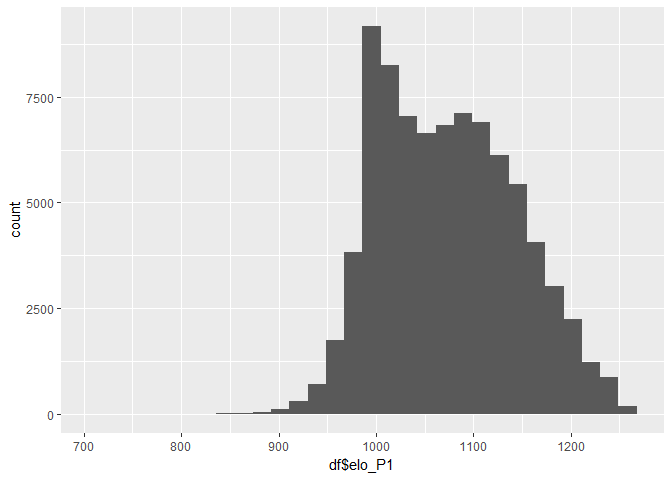
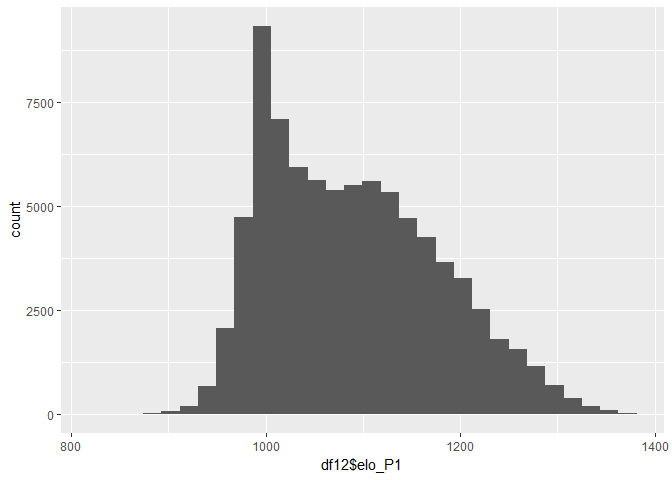
Showing some work
Again to follow along at home. This may be way too many images though. I should probably get rid of some of this alternative k stuff, I think k=12 is fine for now.

diff --git a/analysis/elo_fit.md b/analysis/elo_fit.md
@@ -1,8 +1,269 @@
 Elo Convergence
 ===============
 
-    df <- read.csv('../data/with_elo_k20.csv') %>% select(-X, -X.1)
+    df12 <- read.csv('../data/with_elo_k12.csv')
+    df20 <- read.csv('../data/with_elo_k20.csv')
+    df32 <- read.csv('../data/with_elo_k32.csv')
 
-    qplot(df$elo_P1)
+    qplot(df12$elo_P1); qplot(df12$elo_P2)
 
-<img src="elo_fit_files/figure-markdown_strict/elo_dist-1.png" width="100" height="100" />
+<img src="elo_fit_files/figure-markdown_strict/elo_dist-1.png" width="250" height="250" /><img src="elo_fit_files/figure-markdown_strict/elo_dist-2.png" width="250" height="250" />
+
+    qplot(df20$elo_P1); qplot(df20$elo_P2)
+
+<img src="elo_fit_files/figure-markdown_strict/elo_dist-3.png" width="250" height="250" /><img src="elo_fit_files/figure-markdown_strict/elo_dist-4.png" width="250" height="250" />
+
+    qplot(df32$elo_P1); qplot(df32$elo_P2)
+
+<img src="elo_fit_files/figure-markdown_strict/elo_dist-5.png" width="250" height="250" /><img src="elo_fit_files/figure-markdown_strict/elo_dist-6.png" width="250" height="250" />
+
+Date QA
+=======
+
+    df12 %>% 
+      qplot(x = Date, y = id, geom = "boxplot", data = df12)
+
+![](elo_fit_files/figure-markdown_strict/unnamed-chunk-1-1.png)
+
+Objective
+=========
+
+To assess the fit of our three elo models qualitatively. By assessing
+the individual narratives of some of the more high-profile players in
+SC2 in this time period, we can get the following:
+
+1.  Whether those stories match known observations at the time.
+2.  Whether a larger/smaller k makes for a better model.
+3.  What’s an acceptable burn-in rate to exclude games where elo may not
+    be representative of the player’s skill.
+
+<!-- -->
+
+    elo_story <- function(player, df = df12){
+      df %>% 
+        filter(P1 == player | P2 == player) %>% 
+        select(id, P1,P2,elo_P1,elo_P2) %>% 
+        mutate(player_score = ifelse(P1 == player, elo_P1, elo_P2)) %>%
+        select(id, winner = P1, loser = P2, elo = player_score)
+    }
+
+    add_time_mark <- function(plot, pos, label, y = 950){
+      plot +
+        geom_vline(xintercept = pos) + 
+        geom_text(x = pos + 800, y = y, label = label, angle = 90) + 
+        coord_cartesian(ylim = c(y - 50, 1500))
+    }
+
+    tournament_search <- function(search_term, data = df12){
+      data %>%
+        filter(grepl(search_term, tolower(League))) %>%
+        group_by(League) %>%
+        summarise(first_game = min(id), last_game = max(id), start_date = min(Date), end_date = max(Date)) %>% 
+        arrange(first_game)
+    }
+
+    best_elo <- function(df = df12) {
+      getmode <- function(v) {
+       uniqv <- unique(v)
+       uniqv[which.max(tabulate(match(v, uniqv)))]
+      }
+      
+      df %>% 
+        {rbind(
+            select(., player = P1, elo = elo_P1, race = Race_P1)
+          , select(., player = P2, elo = elo_P2, race = Race_P2)
+        )} %>% 
+        group_by(player) %>% 
+        summarise(max = max(elo), min = min(elo), most_played = getmode(race), count = n()) %>% 
+        arrange(desc(max)) %>% as.data.frame
+    }
+
+IdrA’s Story
+------------
+
+    elo_story('600_IdrA') %>% qplot(x = id, y = elo, data = .) %>% 
+      add_time_mark(849, "MLG Raliegh 2010") %>%
+      add_time_mark(8598, "GSL Code S 2010") %>%
+      add_time_mark(17425, "MLG Dallas 2011") %>%
+      add_time_mark(36470, "MLG Raleigh 2011") %>%
+      add_time_mark(40192, "IEM Guangzhou 2011") %>%
+      add_time_mark(49987, "GSL Code S 2012") %>%
+      add_time_mark(71768, "ASUS GSP Pro 2012")
+
+![](elo_fit_files/figure-markdown_strict/idra_story-1.png)
+
+    elo_story('600_IdrA', df20) %>% qplot(x = id, y = elo, data = .)
+
+![](elo_fit_files/figure-markdown_strict/idra_story-2.png)
+
+    elo_story('600_IdrA', df32) %>% qplot(x = id, y = elo, data = .)
+
+![](elo_fit_files/figure-markdown_strict/idra_story-3.png)
+
+IdrA is perhaps one of the most wildly popular and controversial SC2
+players, and I included him in the QA sample because the narratives
+around his performance suggest swings in behavior that our model should
+pick up on. And indeed it does.
+
+Our data set starts the day after the SC2 release, with the Go4SC2 Cup,
+and quickly moves into the 2010 MLG tournament. Idra did very well
+initially, taking first place in MLG 2010 and securing an offer with the
+Evil Geniuses, a North American Starcraft 2 team.
+
+By summer 2011, however, IdrA starts showing more moderated performance,
+with some disappointing tournament results combined with a string of
+games that IdrA conceded, despite having advantageous positions. There’s
+a brief uptick in Fall 2011, but by Jan 2012 IdrA begins a period known
+as “the long slump”.
+
+The elo model captures this long slump period well, showing IdrA
+dropping almost 200 points betweeen Winter and Summer 2012. IdrA does
+manage to rebound ~125 points after his low mark, but unfortunately our
+data set ends there, so we can’t comment further on his recovery.
+
+Our goal here is to ensure that the elo model follows the narrative arc
+of the player sufficiently, and IdrA has a dynamic story to tell over
+those two years which the model captures quite nicely. However, we must
+take care to not place too much interpretive weight on the model scores
+themselves at this point. Because if SC2 was imbalanced against Zerg, we
+might expect that bias to get baked into elo over time. The narrative
+around IdrA still regards him as one of the greatest Zerg players of all
+time, at a time where not many players used Zerg in tournament play.
+Thus, in trying to tease out balance issues in the game, IdrA serves a
+uniquely important role.
+
+(Maybe look into Nestea here too)
+
+Note, Idra’s story really captures the “long slump” well I think
+[](https://liquipedia.net/starcraft2/IdrA)
+
+Stephano’s Story
+----------------
+
+    elo_story('1996_Stephano') %>% qplot(x = id, y = elo, data = .) %>%
+      add_time_mark(17425, "MLG Dallas 2011") %>%
+      add_time_mark(28459, "ESWC France 2011") %>%
+      add_time_mark(35275, "IEM VI Cologne 2011") %>%
+      add_time_mark(41932, "ESWC France Finals 2011") %>%
+      add_time_mark(47480, "Blizzard Cup 2011") %>%
+      add_time_mark(49626, "eOSL Winter 2012") %>%
+      add_time_mark(58402, "Lone Star Clash 2012") %>%
+      add_time_mark(76359, "MLG Summer 2012")
+
+![](elo_fit_files/figure-markdown_strict/stephano_story-1.png)
+
+Stephano doesn’t have a reliable tournament presence prior to 2011. This
+is possibly because he started playing Starcraft under the handle Sat.
+Unfortunately, this set doesn’t include games from that handle.
+
+Stephano’s presence in the tournament scene seems to be marked by a
+slow, steady climb to top-tier play. By July 2011, Stephano had placed
+1st in the Master Series, and by Oct 2011 he would go on and win the
+ESWC against MarineKing and MaNa.
+
+In November 2011, Stephano has a disappointing run in the Battle of
+Berlin, Dreamhack, and the Blizzard Cup. The model captures this run
+nicely, and Stephano quickly rebounds shortly after.
+
+By March 2012, Stephano has reached his prime.
+
+Stephano could be an interesting contrast to IdrA. But the key objection
+to contrasting him to IdrA is that you’re comparing a largely French
+player to an American one. Those talent pools may be different, and thus
+their elos not comparable. In order to use Stephano as a contrast we
+need to demonstrate that his elo gives good expectations regarding his
+tournament wins/losses.
+
+Here’s an idea - create a data set of before/after games just after a
+balance change. Among all players of a specific race, does average elo
+go up or down?
+
+MarineKing’s Story
+------------------
+
+    elo_story('959_MarineKing') %>% qplot(x = id, y = elo, data = .) %>% 
+      add_time_mark(3731, "GSL S2 2010") %>%
+      add_time_mark(8598, "GSL Code S 2011") %>%
+      add_time_mark(21707, "GSL Up 2011") %>%
+      add_time_mark(33671, "GSL Code A 2011") %>%
+      add_time_mark(41730, "GSL Up Oct 2011")
+
+![](elo_fit_files/figure-markdown_strict/mk_story-1.png)
+
+    elo_story('959_MarineKing', df20) %>% qplot(x = id, y = elo, data = .)
+
+![](elo_fit_files/figure-markdown_strict/mk_story-2.png)
+
+    elo_story('959_MarineKing', df32) %>% qplot(x = id, y = elo, data = .)
+
+![](elo_fit_files/figure-markdown_strict/mk_story-3.png)
+
+Made himself famous at GSL S2 with marine split stimming and 2-rax.
+
+Dec. 7, 2010, Blizzard puts him on a top 200 list.
+
+Mvp’s Story
+-----------
+
+    elo_story('590_Mvp') %>% qplot(x = id, y = elo, data = .)
+
+![](elo_fit_files/figure-markdown_strict/mvp_story-1.png)
+
+    elo_story('590_Mvp', df20) %>% qplot(x = id, y = elo, data = .)
+
+![](elo_fit_files/figure-markdown_strict/mvp_story-2.png)
+
+    elo_story('590_Mvp', df32) %>% qplot(x = id, y = elo, data = .)
+
+![](elo_fit_files/figure-markdown_strict/mvp_story-3.png)
+
+Life’s
+------
+
+    elo_story('2747_Life') %>% qplot(x = id, y = elo, data = .)
+
+![](elo_fit_files/figure-markdown_strict/life_story-1.png)
+
+    elo_story('2747_Life', df20) %>% qplot(x = id, y = elo, data = .)
+
+![](elo_fit_files/figure-markdown_strict/life_story-2.png)
+
+    elo_story('2747_Life', df32) %>% qplot(x = id, y = elo, data = .)
+
+![](elo_fit_files/figure-markdown_strict/life_story-3.png)
+
+hG’s Story
+----------
+
+    elo_story('1736_hG') %>% qplot(x = id, y = elo, data = .)
+
+![](elo_fit_files/figure-markdown_strict/hg_story-1.png)
+
+    df32 %>% 
+      group_by(P1) %>% 
+      summarise(high_score = max(elo_P1)) %>% arrange(desc(high_score)) %>% 
+      head(20)
+
+    ## # A tibble: 20 x 2
+    ##    P1             high_score
+    ##    <fct>               <dbl>
+    ##  1 1849_TaeJa          1569.
+    ##  2 969_Squirtle        1551.
+    ##  3 959_MarineKing      1545.
+    ##  4 1979_jjakji         1534.
+    ##  5 1971_Leenock        1526.
+    ##  6 590_Mvp             1515.
+    ##  7 640_MC              1512.
+    ##  8 2627_DongRaeGu      1508.
+    ##  9 1856_Polt           1501.
+    ## 10 1771_Nerchio        1501.
+    ## 11 2747_Life           1497.
+    ## 12 1996_Stephano       1489.
+    ## 13 1988_aLive          1481.
+    ## 14 2321_Seed           1481.
+    ## 15 665_MMA             1479.
+    ## 16 2838_Creator        1478.
+    ## 17 662_Symbol          1478.
+    ## 18 2306_Alicia         1466.
+    ## 19 2092_Monster        1463.
+    ## 20 2322_PartinG        1454.
